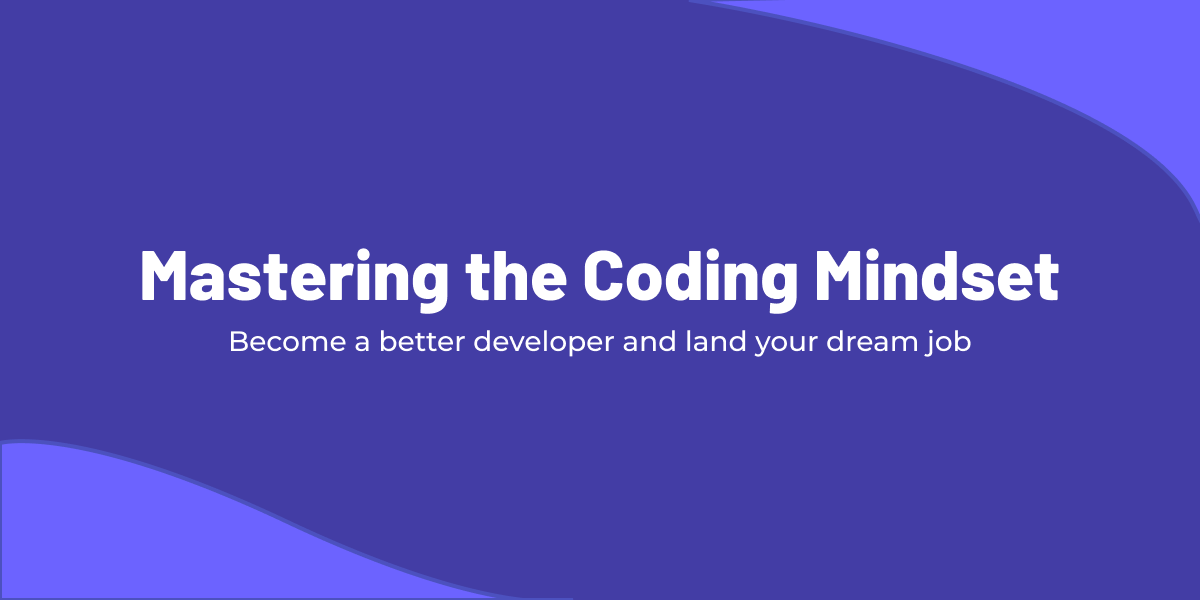
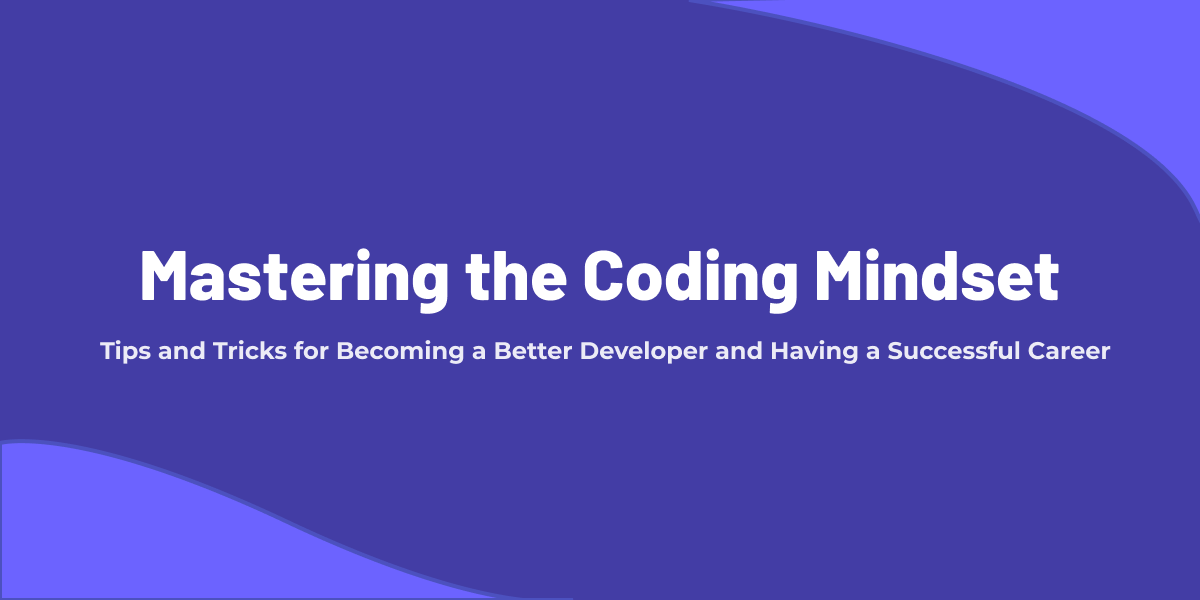
update meta info

Changed region(s): [[0.0617, 0.54, 0.925, 0.6]]

diff --git a/src/routes/mastering-coding-mindset.svelte b/src/routes/mastering-coding-mindset.svelte
@@ -43,6 +43,21 @@
   /* your styles go here */
 </style>
 
+<svelte:head>
+  <title>Mastering the Coding Mindset</title>
+  <meta
+    name="description"
+    content="Tips and Tricks for Becoming a Better Developer and Having a
+    Successful Career" />
+  <meta name="twitter:card" content="summary_large_image" />
+  <meta name="twitter:site" content="@madsbrodt" />
+  <meta name="twitter:title" content="Mastering the Coding Mindset" />
+  <meta
+    name="twitter:description"
+    content="Tips and Tricks for Becoming a Better Developer and Having a
+    Successful Career" />
+  <meta name="twitter:image" content="https://madsbrodt.com/book_meta.png" />
+</svelte:head>
 <div>
   <AnnouncementBar />
   <Hero />
